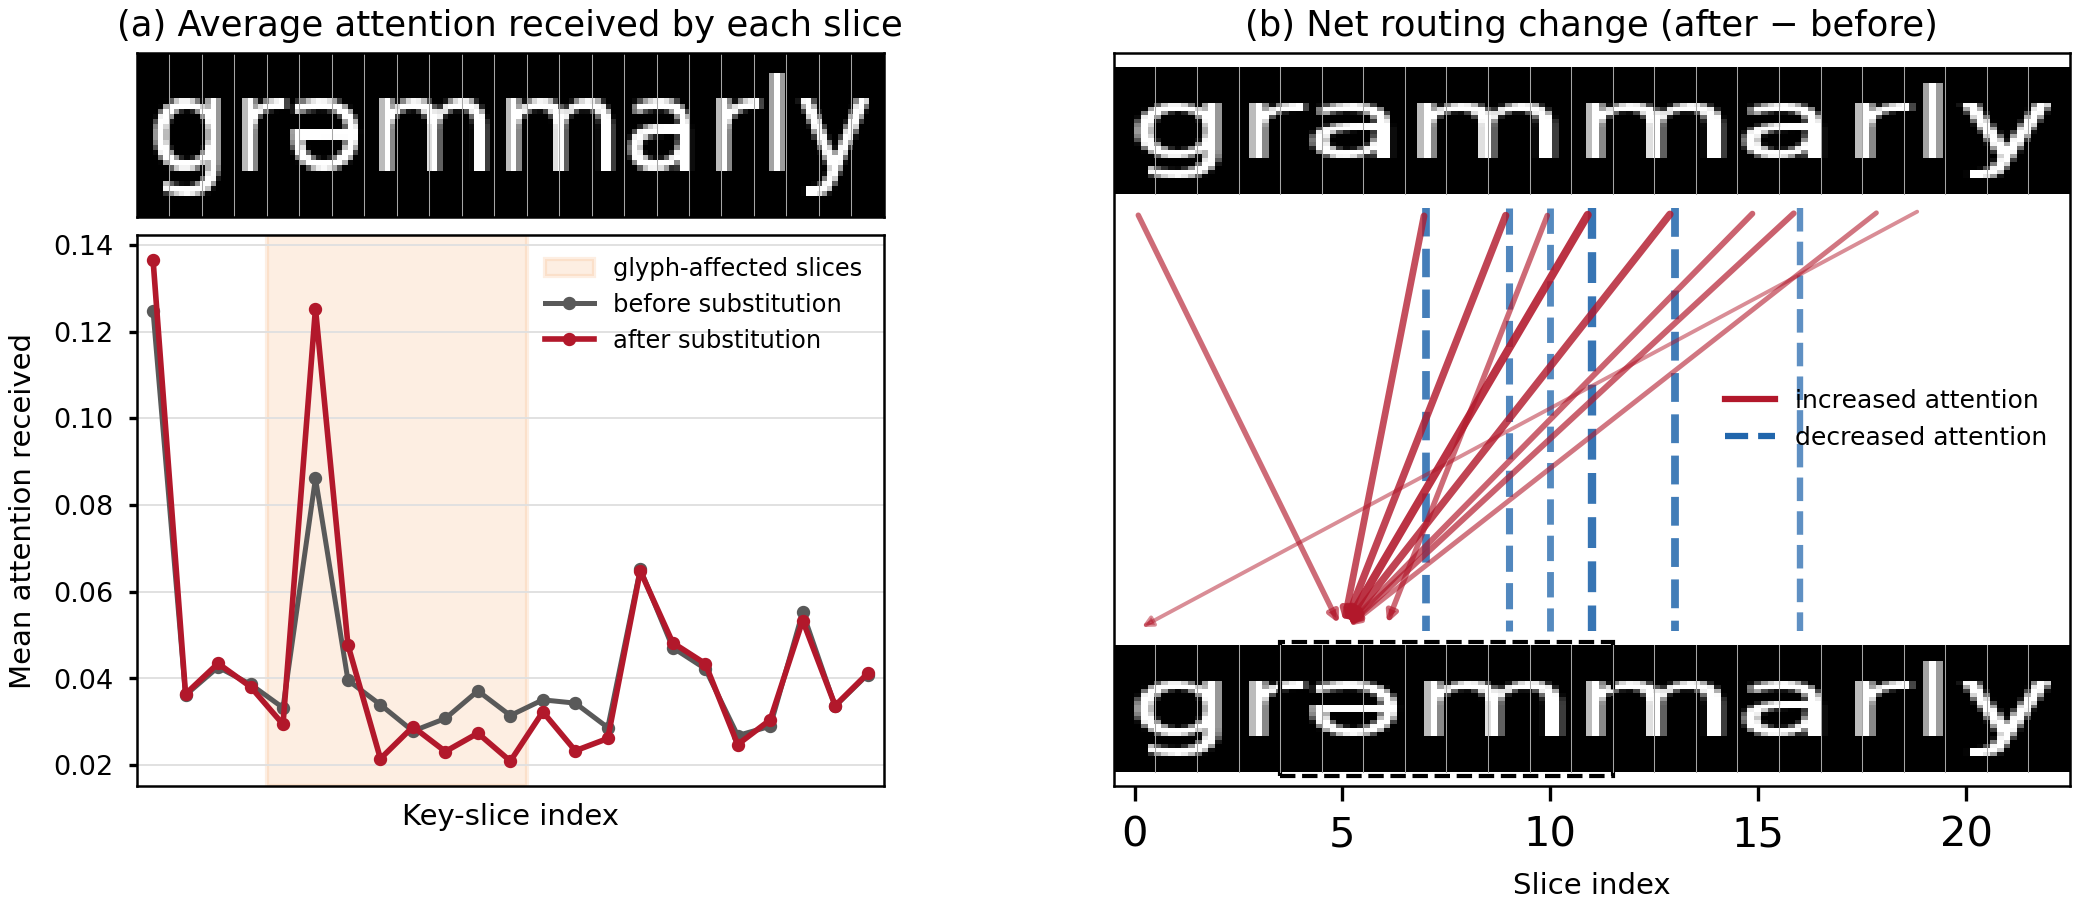
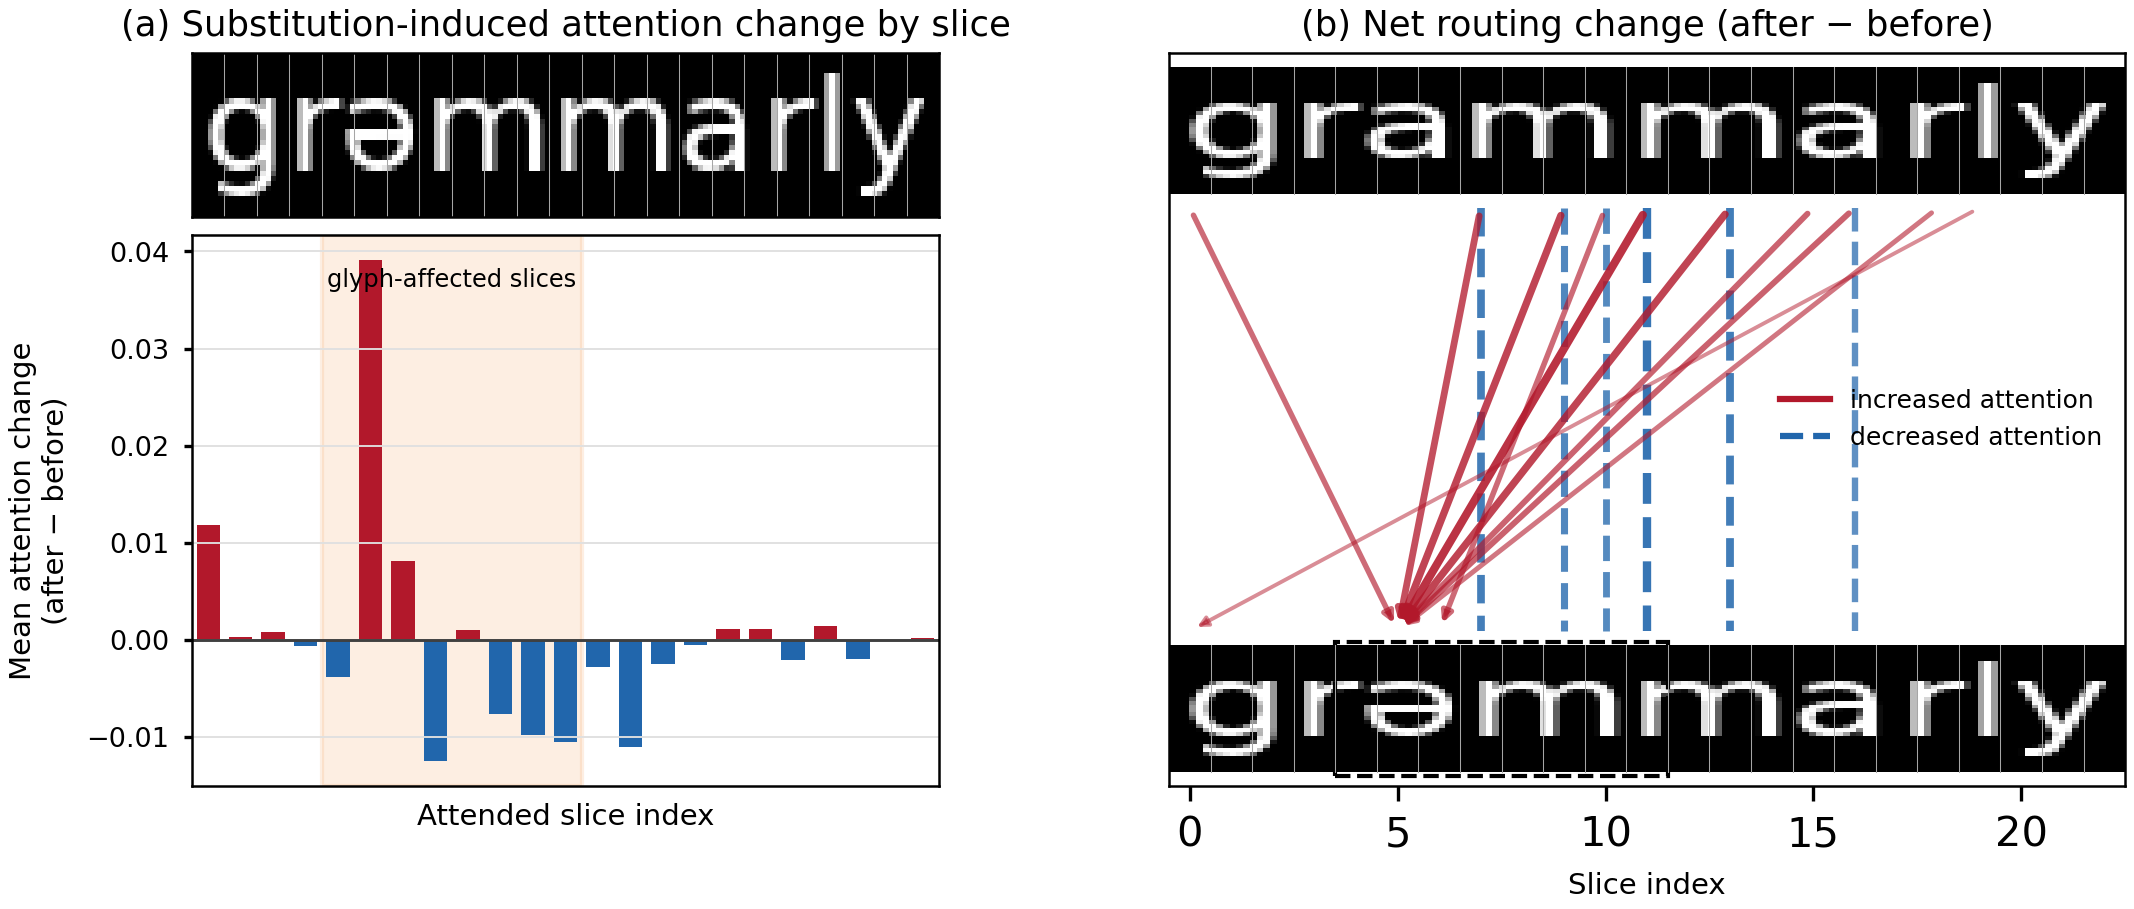
Remove boundary anchor from attention figure

diff --git a/synth_dataset/scripts/build_paper_alignment_figures.py b/synth_dataset/scripts/build_paper_alignment_figures.py
@@ -900,6 +900,7 @@ def plot_cross_attention_before_after_routing(
     # Mean attention received by key j: Abar_j = (1/L_q) sum_i A_ij.
     clean_received = clean_attention.mean(axis=0)
     spoof_received = spoof_attention.mean(axis=0)
+    received_delta = spoof_received - clean_received
     clean_span_mass = float(clean_received[changed_indices].sum())
     spoof_span_mass = float(spoof_received[changed_indices].sum())
     span_mass_change = spoof_span_mass - clean_span_mass
@@ -950,29 +951,36 @@ def plot_cross_attention_before_after_routing(
     key_strip.set_xticks([])
     key_strip.set_yticks([])
     key_strip.set_title(
-        "(a) Average attention received by each slice", fontsize=8.5, pad=4
+        "(a) Substitution-induced attention change by slice", fontsize=8.5, pad=4
     )
 
     received = figure.add_subplot(left_grid[1], sharex=key_strip)
     indices = np.arange(sequence_length)
     received.axvspan(
         changed_span[0] - 0.5, changed_span[1] + 0.5,
-        color="#f4a261", alpha=0.18, label="glyph-affected slices",
+        color="#f4a261", alpha=0.18,
     )
-    received.plot(
-        indices, clean_received, color="0.35", linewidth=1.2,
-        marker="o", markersize=2.2, label="before substitution",
+    received.bar(
+        indices,
+        received_delta,
+        width=0.72,
+        color=np.where(received_delta >= 0.0, "#b2182b", "#2166ac"),
+        edgecolor="none",
     )
-    received.plot(
-        indices, spoof_received, color="#b2182b", linewidth=1.35,
-        marker="o", markersize=2.2, label="after substitution",
-    )
+    received.axhline(0.0, color="0.25", linewidth=0.7)
     received.set_xlim(-0.5, sequence_length - 0.5)
-    received.set_xlabel("Key-slice index", fontsize=7)
-    received.set_ylabel("Mean attention received", fontsize=7)
+    received.set_xlabel("Attended slice index", fontsize=7)
+    received.set_ylabel("Mean attention change\n(after − before)", fontsize=7)
     received.tick_params(labelsize=6.5, length=2)
     received.grid(axis="y", color="0.88", linewidth=0.45)
-    received.legend(loc="upper right", frameon=False, fontsize=5.8)
+    received.text(
+        np.mean(changed_span),
+        received.get_ylim()[1] * 0.92,
+        "glyph-affected slices",
+        ha="center",
+        va="top",
+        fontsize=5.8,
+    )
 
     route = figure.add_subplot(outer[1])
     route.imshow(
@@ -1184,8 +1192,9 @@ def main() -> int:
         "numerically comparable because each selected model uses its own tuned slicing "
         "configuration.\n\n"
         "Figure: Mathematical view of substitution-induced cross-attention routing. The left "
-        "panel compares the mean attention received by each key slice before and after the "
-        "OCR-confusable substitution, with the glyph-affected span shaded. The right panel "
+        "panel shows the signed change in mean attention received by each slice after subtracting "
+        "the unchanged-name baseline, with the glyph-affected span shaded. This subtraction "
+        "removes the shared sequence-boundary anchor. The right panel "
         "shows the largest signed entries of ΔA = A_spoof - A_clean: red arrows indicate "
         "increased query-to-key attention and blue dashed links indicate decreased attention. "
         "Attention weights are from Block 1 in the real-query-to-variant-key direction and are "
